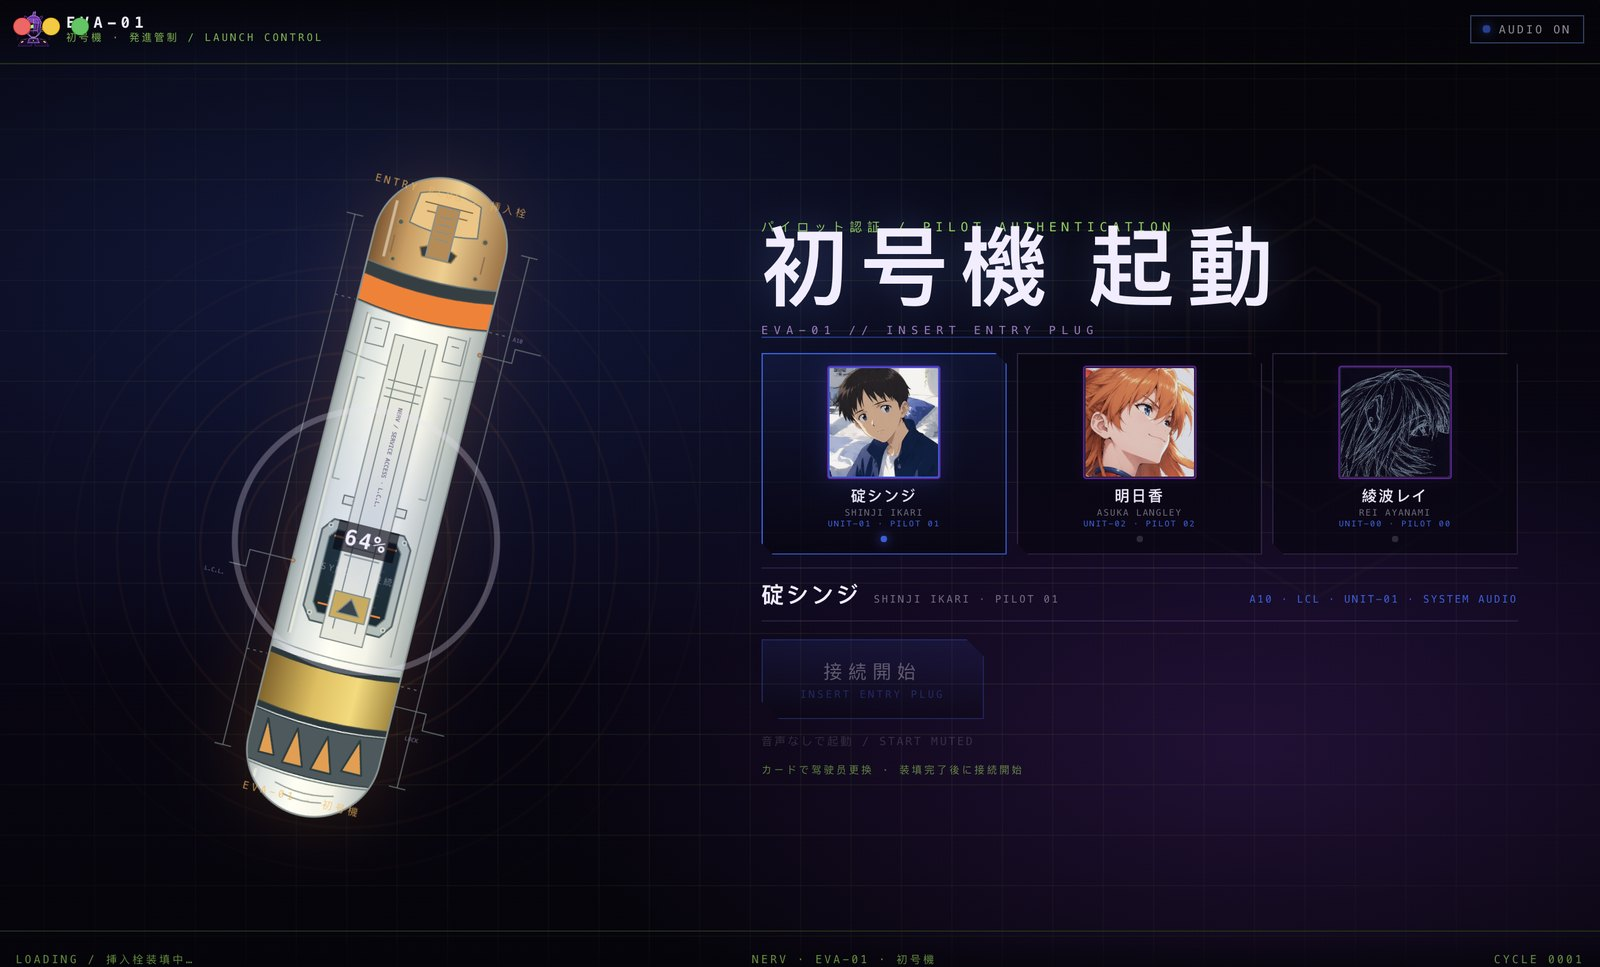
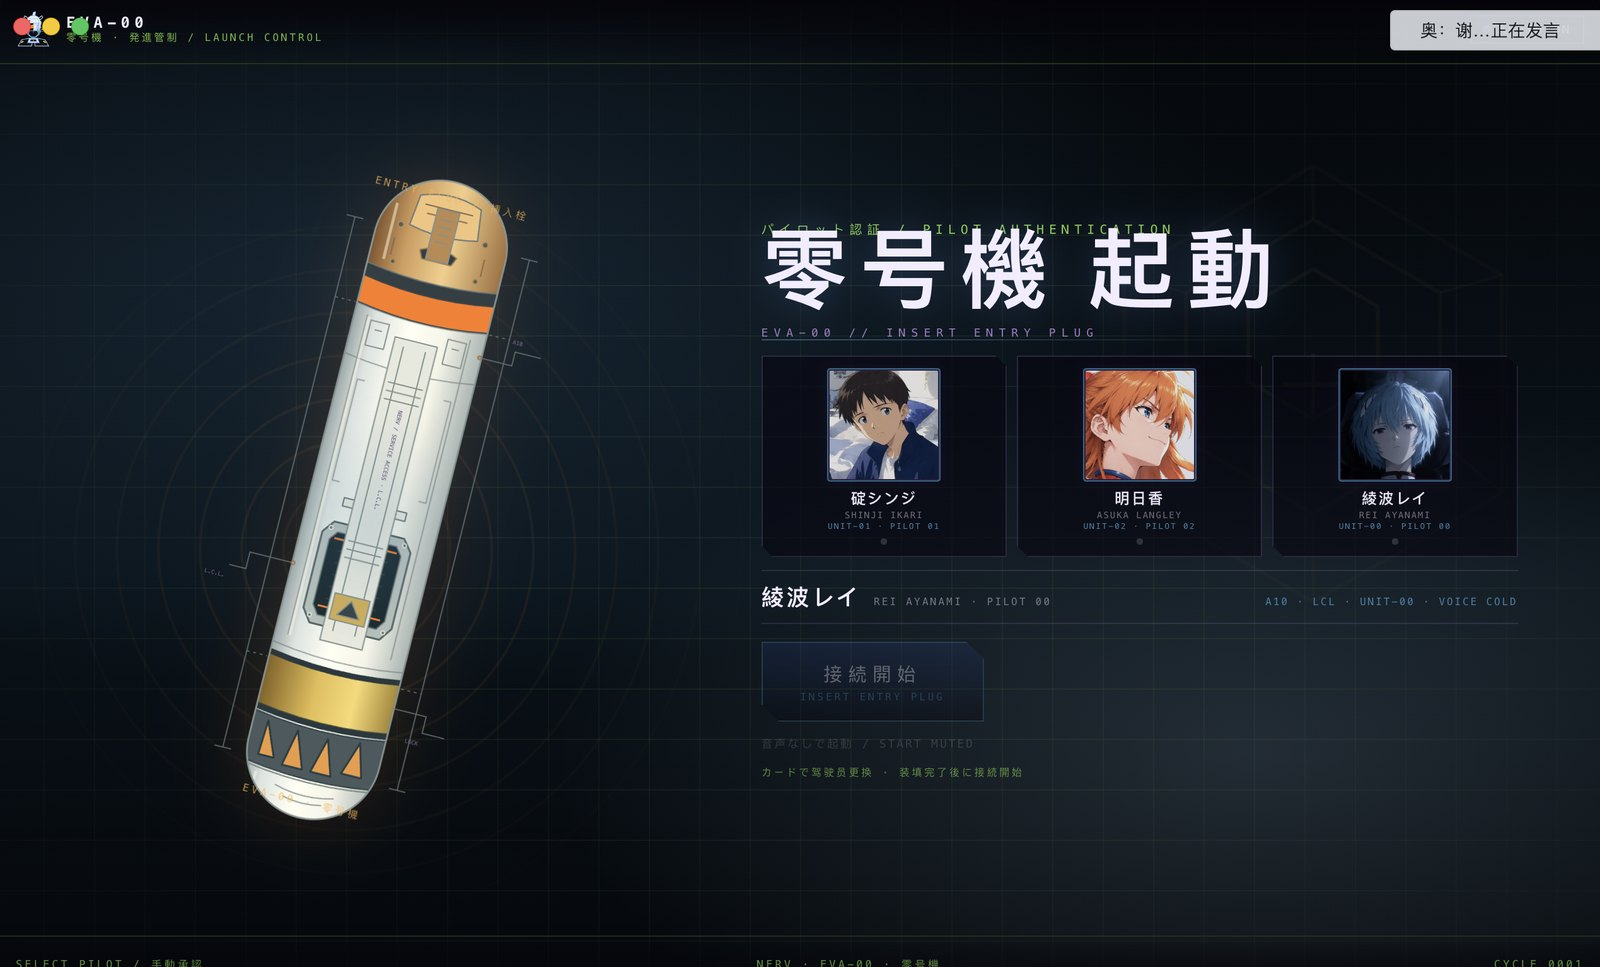
feat: replace Rei pilot art with supplied plugsuit illustration
- new avatar/portrait crops for Rei (entry-plug plugsuit artwork)
- cache-busting 1.5.2; docs gate screenshot refreshed
- bump 1.5.2

diff --git a/client.js b/client.js
@@ -19,7 +19,7 @@ window.__ModuleLoader__.load({
     const SOUND_KEY = 'eva01.sound';
     const GATE_KEY = 'eva01.gate';
     const PILOT_KEY = 'eva01.pilot';
-    const ASSET_VERSION = '1.5.1';
+    const ASSET_VERSION = '1.5.2';
 
     const assetUrl = (file) => '/dsh-eva-unit-01/assets/' + file + '?v=' + ASSET_VERSION;
 

diff --git a/src/client.template.js b/src/client.template.js
@@ -19,7 +19,7 @@ window.__ModuleLoader__.load({
     const SOUND_KEY = 'eva01.sound';
     const GATE_KEY = 'eva01.gate';
     const PILOT_KEY = 'eva01.pilot';
-    const ASSET_VERSION = '1.5.1';
+    const ASSET_VERSION = '1.5.2';
 
     const assetUrl = (file) => '/dsh-eva-unit-01/assets/' + file + '?v=' + ASSET_VERSION;
 

diff --git a/README.md b/README.md
@@ -3,7 +3,7 @@
 把 **DeepSeek Harness Web GUI** 改成 EVA 启动控制台的皮肤插件（Cordis bundle，Host 提供余额/素材路由，Client 负责全部界面）。
 
 - 包名：`dsh-eva-unit-01-skin`
-- 当前版本：**v1.5.1**
+- 当前版本：**v1.5.2**
 - 形态：Client 侧皮肤插件 + 只读 Host 路由（余额、驾驶员素材）
 - 适配：Harness Desktop / Web 客户端，深色与浅色两套宿主配色
 
@@ -167,7 +167,7 @@ node build.mjs --check   # 把 src/skin.css、art/*.svg、src/audio.js 内联进
 | `assets/berserk-01.png` / `berserk-02.png` | 初号机/二号机暴走立绘（抠图，所有者提供） |
 | `assets/avatar-shinji.png` / `portrait-shinji.png` | 项目所有者提供的碇真嗣插画裁切 |
 | `assets/avatar-asuka.png` / `portrait-asuka.png` | 项目所有者提供的明日香插画裁切 |
-| `assets/avatar-rei.png` / `portrait-rei.png` | 项目所有者提供的绫波丽线稿裁切/透明化 |
+| `assets/avatar-rei.png` / `portrait-rei.png` | 项目所有者提供的绫波丽插入栓插画裁切 |
 | `client.js` | 构建产物 |
 
 ## 兼容性与边界
@@ -180,8 +180,8 @@ node build.mjs --check   # 把 src/skin.css、art/*.svg、src/audio.js 内联进
 ## 素材与授权
 
 - 代码与原创矢量/音频/台词：MIT（见 `LICENSE`）。
-- **插入栓 SVG** 来自 [`seaison/dsh-plugin-eva-theme`](https://github.com/seaison/dsh-plugin-eva-theme)，按其仓库说明其媒体素材不在 MIT 覆盖范围内；本仓库按用户要求引用并保留署名，权利归原作者。插入栓 SVG 做了 XML 合法性与内联样式修复。碇真嗣、明日香、绫波丽图像均使用项目所有者提供的插画/线稿素材裁切，版权归提供者。见 [`NOTICE.md`](NOTICE.md)。
-- 碇真嗣、明日香、绫波丽图像均使用项目所有者提供的插画/线稿素材裁切与透明化处理，不复制官方原画。
+- **插入栓 SVG** 来自 [`seaison/dsh-plugin-eva-theme`](https://github.com/seaison/dsh-plugin-eva-theme)，按其仓库说明其媒体素材不在 MIT 覆盖范围内；本仓库按用户要求引用并保留署名，权利归原作者。插入栓 SVG 做了 XML 合法性与内联样式修复。碇真嗣、明日香、碇真嗣、明日香、绫波丽图像均使用项目所有者提供的插画素材裁切，版权归提供者。见 [`NOTICE.md`](NOTICE.md)。
+- 碇真嗣、明日香、碇真嗣、明日香、绫波丽图像均使用项目所有者提供的插画素材裁切与透明化处理，不复制官方原画。
 - 不包含官方动画音轨、声优录音或官方美术素材；角色名与机体名为致敬性引用，本项目为非商业粉丝作品。
 
 ## License

diff --git a/NOTICE.md b/NOTICE.md
@@ -26,7 +26,7 @@ and are not covered by this repository's MIT license.
 `assets/avatar-rei.png` and `assets/portrait-rei.png` are crops / transparent
 line-art conversions of images supplied directly by the project owner for this
 personal fan project (Shinji in his room with headphones/SDAT; Asuka in her red
-plugsuit; Rei as a blue line-art sketch). Copyright remains with the supplier;
+plugsuit; Rei in her plugsuit inside the entry plug). Copyright remains with the supplier;
 they are included at the owner's explicit request and are not covered by this
 repository's MIT license.
 
